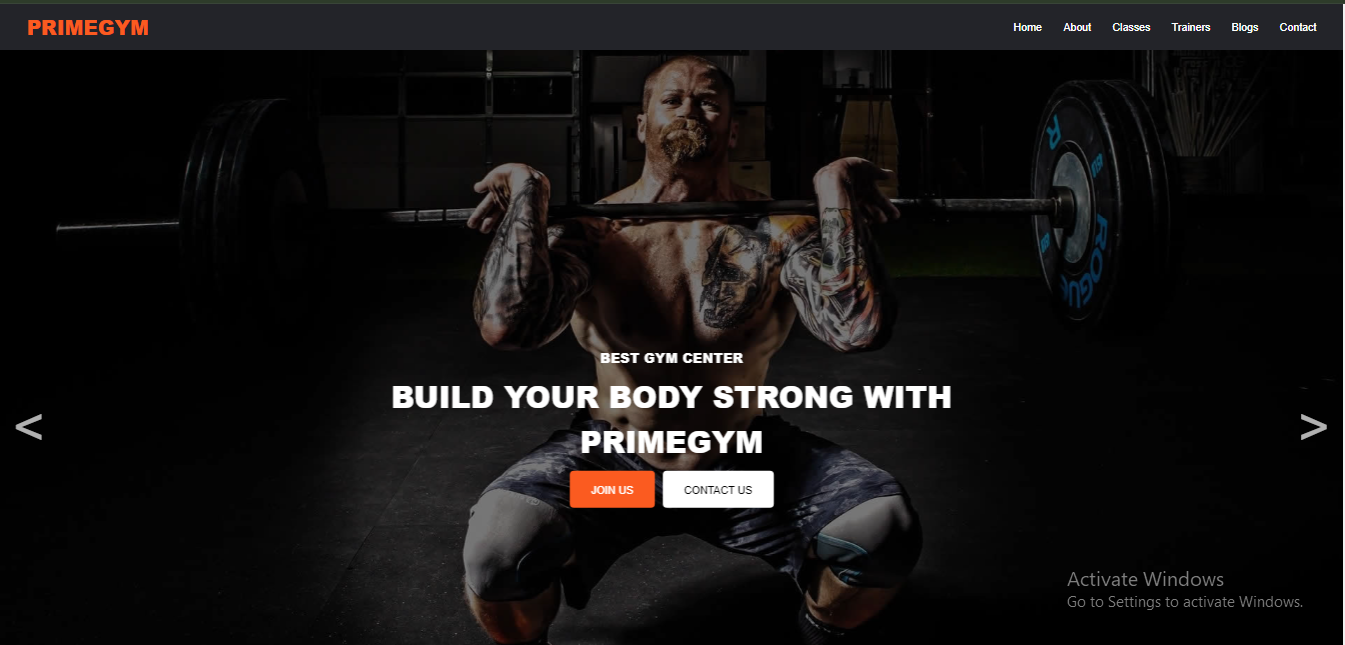
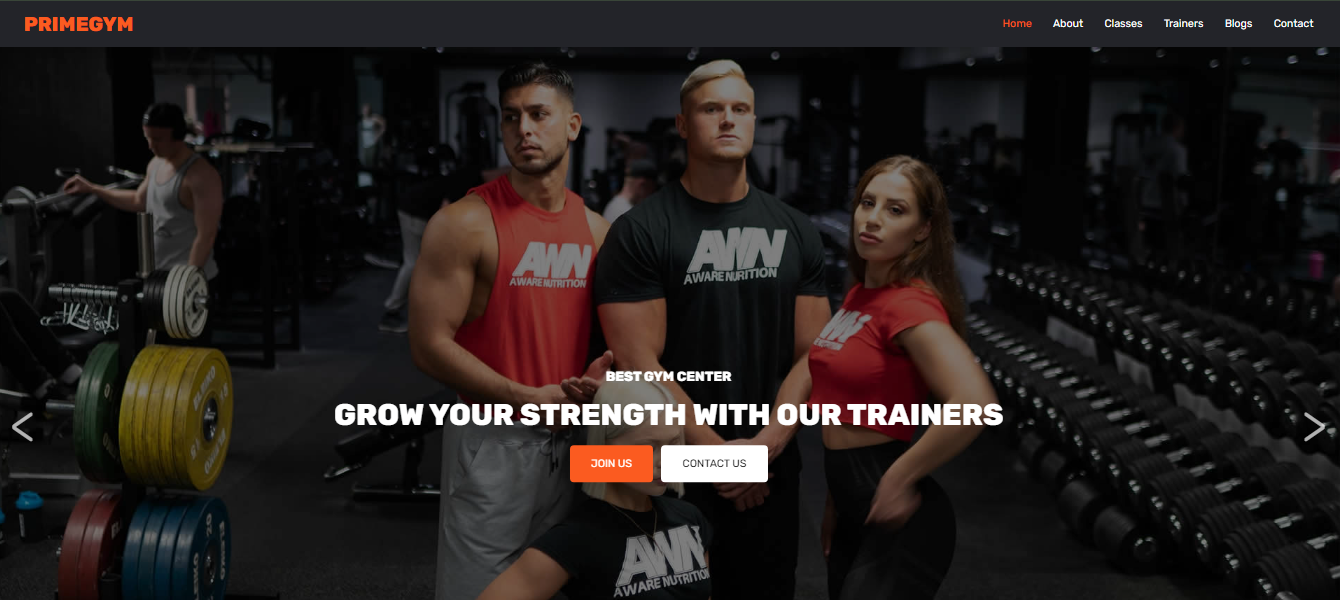
added glass effect to containers, updated primegym project cover

diff --git a/src/components/Main Components/Certificate-section/Certificates.tsx b/src/components/Main Components/Certificate-section/Certificates.tsx
@@ -68,6 +68,11 @@ const Certificates = () => {
             certiLink: "https://coursera.org/verify/ZKCXS0G14SVJ",
         },
     ],[]) 
+
+    /*  bg-[#252525] certificateContainer 
+        bg-[#252525] mainCertiInfoContainer
+        bg-[#252525] moduleCertificatesContainer
+    */
     return (
         <section id="certificates" className="bg-[#07080a] w-full p-[25px] lg:p-[50px] certificateSection">
             <div className="mb-[25px] md:mb-[50px] text-center certificateHeaderContainer">
@@ -75,7 +80,7 @@ const Certificates = () => {
                 <p className="text-[#c0c0c0] w-full">The Meta Front-End Developer Professional Certificate course gave me a solid foundation in front-end development and enhanced my ability to create responsive and user-friendly websites.</p>
             </div>
             
-            <div className="w-full h-full bg-[#252525] p-4 rounded-xl gap-4 certificateContainer">
+            <div className="w-full h-full  p-4 rounded-xl gap-4 glass certificateContainer">
                 <div className="w-full text-center mb-6 mainCertiImageHeaderDescription">
                     <h2 className="text-white text-xl mainCertificateHeader">Meta Front-End Developer</h2>
                     <h2 className="text-white text-xl  mainCertificateHeaderDescription">Specialization Certificate</h2> 
@@ -105,7 +110,7 @@ const Certificates = () => {
                                 ))}
                                 
                             </div>
-                                <div className="w-full flex flex-col gap-3 p-[14px] bg-[#252525] rounded-xl mainCertiInfoContainer">
+                                <div className="w-full flex flex-col gap-3 p-[14px] rounded-xl glass mainCertiInfoContainer">
                                     <div className="flex items-center gap-1 mb-2 organizationContainer">
                                         <p className="text-white lg:text-lg organization">Organization - </p>
                                         <div className="p-1 flex justify-center items-center bg-white metaIconContainer">
@@ -125,7 +130,7 @@ const Certificates = () => {
                         </div>
                     </div>
 
-                    <div className="p-[14px] bg-[#252525] rounded-xl moduleCertificates">
+                    <div className="p-[14px] rounded-xl glass moduleCertificates">
                         <h2 className="text-white text-xl mb-6 text-center">Course Completed Module Certificates</h2>
 
                         <div className="lg:grid lg:grid-cols-2 moduleCertificatesContainer">

diff --git a/src/components/Main Components/Projects-section/Projects.tsx b/src/components/Main Components/Projects-section/Projects.tsx
@@ -187,6 +187,8 @@ const Projects = () => {
         
     ],[])
 
+    /* bg-[#252525] individualProjectsContainer */
+
     return (
         <section id="projects" className="bg-[#07080a] w-full p-[25px] lg:p-[50px] projectsSection">
             <div className="mb-[25px] md:mb-[50px] text-center projectsHeaderContainer">
@@ -198,7 +200,7 @@ const Projects = () => {
 
             <div ref={ref} className="grid grid-cols-1 gap-4 lg:grid-cols-2 projectsContainer">
                 {projects.map((project) => (
-                    <div style={{transition: `${project.transition}s`}} key={project.projectTitle} className={`bg-[#252525] p-4 rounded-xl ${inView? "revealProject" : ""} individualProjectsContainer`}>
+                    <div style={{transition: `${project.transition}s`}} key={project.projectTitle} className={` p-4 rounded-xl ${inView? "revealProject" : ""} glass individualProjectsContainer`}>
 
                         
                             <div className="w-full rounded-xl mb-4 relative overflow-hidden projectImageContainer">

diff --git a/src/components/Main Components/TechStack-section/IndividualTechContainer.tsx b/src/components/Main Components/TechStack-section/IndividualTechContainer.tsx
@@ -13,9 +13,10 @@ const IndividualTechContainer = ({name, image, description, bgColor}: individual
         threshold: 0.1,
     })
 
+    /* bg-[#252525] hover:bg-[#2b2b2b] */
 
   return (
-        <div ref={ref} className={`p-[10px] mb-3 rounded-xl flex gap-4 w-full bg-[#252525] hover:bg-[#2b2b2b] hover:shadow-inwards ${inView? "revealTeckStack" : ""} md:mb-0 lg:h-fit individualTechStackContainer`}>
+        <div ref={ref} className={`p-[10px] mb-3 rounded-xl flex gap-4 w-full  hover:shadow-inwards ${inView? "revealTeckStack" : ""} md:mb-0 lg:h-fit glass individualTechStackContainer`}>
             <div style={{backgroundColor: bgColor}} className="w-[80px] h-[80px] p-3 flex justify-center items-center rounded-xl lg:w-[100px] lg:h-fit techIconContainer">
                 <img draggable={false} src={image} alt="react" className="w-full"/>
             </div>

diff --git a/src/index.css b/src/index.css
@@ -248,4 +248,11 @@
         border-radius: 5px;
     }
 
+    .glass {
+        background: linear-gradient(135deg, rgba(255, 255, 255, 0.15), rgba(255, 255, 255, 0.05));
+        backdrop-filter: blur(10px);
+        -webkit-backdrop-filter: blur(10px);
+       
+    }
+
 }
